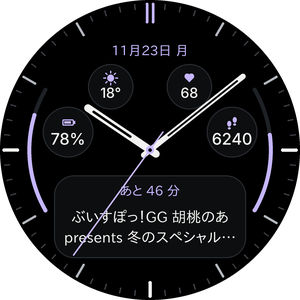
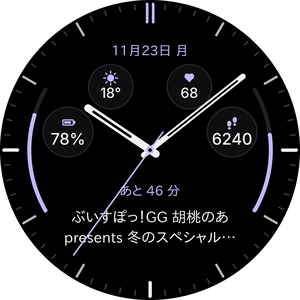
Remove calendar card frame; fix debug signing key for overwrite installs
- Calendar text is shown without the card background
- Commit a shared test-only debug keystore so every build has the same
  signature and updates install with adb install -r (settings kept)

Claude-Session: https://claude.ai/code/session_0153GkUJgMbFYegMctzmUYaE

diff --git a/tools/generate.py b/tools/generate.py
@@ -48,7 +48,7 @@ BATT_POS, STEPS_POS = (102, 198), (348, 198)
 WEATHER_POS, HR_POS = (166, 130), (284, 130)
 OUTER_VALUE, OUTER_VALUE_LONG, INNER_VALUE = 24, 20, 21
 
-# Calendar card: the whole lower half
+# Calendar area (text only, no card): the whole lower half
 CAL_W, CAL_H, CAL_Y, CAL_RADIUS = 290, 126, 262, 30
 CAL_TIME_SIZE, CAL_TITLE_SIZE = 20, 22
 
@@ -499,25 +499,14 @@ def build_xml() -> str:
     x.leaf("BoundingRoundBox", x=0, y=0, width=cw, height=ch, cornerRadius=CAL_RADIUS)
     x.leaf("Variant", mode="AMBIENT", target="alpha", value=170)
 
-    def card() -> None:
-        x.open("PartDraw", name="card", x=0, y=0, width=cw, height=ch)
-        x.open("RoundRectangle", x=1, y=1, width=cw - 2, height=ch - 2,
-               cornerRadiusX=CAL_RADIUS, cornerRadiusY=CAL_RADIUS)
-        x.leaf("Stroke", color=EDGE, thickness=1.5)
-        x.leaf("Fill", color=CARD)
-        x.close("RoundRectangle")
-        x.close("PartDraw")
-
     for ctype in ("LONG_TEXT", "SHORT_TEXT"):
         x.open("Complication", type=ctype)
-        card()
         text_part(x, "event_time", 16, 10, cw - 32, 28, CAL_TIME_SIZE, ACCENT,
                   template=("%s", ["[COMPLICATION.TITLE]"]), weight="MEDIUM")
         text_part(x, "event_title", 16, 40, cw - 32, ch - 48, CAL_TITLE_SIZE, WHITE,
                   template=("%s", ["[COMPLICATION.TEXT]"]), weight="MEDIUM", max_lines=2)
         x.close("Complication")
     x.open("Complication", type="EMPTY")
-    card()
     x.close("Complication")
     x.close("ComplicationSlot")
 
@@ -689,15 +678,8 @@ def render_preview(path: pathlib.Path, theme_idx=0, ambient=False, scale_out=1.0
     da = 200 / 255 if ambient else 1
     text(data["date"], C, DATE_Y, DATE_SIZE, col(acc_hex, da), "Medium")
 
-    # calendar card
+    # calendar (text only, no card background)
     ca = 170 / 255 if ambient else 1
-    x0 = C - CAL_W / 2
-    layer = Image.new("RGBA", img.size, (0, 0, 0, 0))
-    ImageDraw.Draw(layer).rounded_rectangle(
-        [P(x0 + 1), P(CAL_Y + 1), P(x0 + CAL_W - 1), P(CAL_Y + CAL_H - 1)], radius=P(CAL_RADIUS),
-        fill=col(CARD, ca), outline=col(EDGE, ca), width=int(1.5 * S))
-    img.alpha_composite(layer)
-    d = ImageDraw.Draw(img)
     text(data["ev_time"], C, CAL_Y + 24, CAL_TIME_SIZE, col(acc_hex, ca), "Medium")
     lines_ = data["ev_title"][:2]
     lh = CAL_TITLE_SIZE * 1.45
